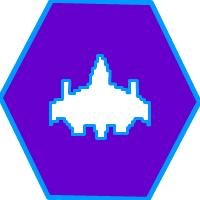
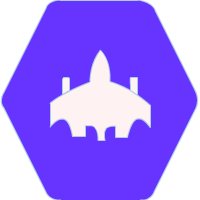
Dia y noche, cambio de íconos

diff --git a/core/src/com/upsidedown/Fondo.java b/core/src/com/upsidedown/Fondo.java
@@ -15,7 +15,7 @@ public class Fondo extends Actor {
 	float ang=0;
 	private float x,y,width,heigth,escalaX,escalaY;
 	private int origenX, origenY,rotacion,srcX,srcY;
-	private boolean flipX,flipY;
+	private boolean flipX,flipY,noche;
 
 	private int speed;
 
@@ -33,6 +33,7 @@ public class Fondo extends Actor {
 		heigth = Config.h;
 		escalaX = escalaY = 1;
 		flipX = flipY = false;
+		noche=false;
 	}
 
 	public void setSpeed(int newSpeed){
@@ -44,7 +45,7 @@ public class Fondo extends Actor {
 	@Override
 	public void draw(Batch batch, float parentAlpha) {
 		batch.setColor(getColor().r, getColor().g, getColor().b, getColor().a * parentAlpha);
-		batch.draw(ciclo,0,-heigth/5,width/2,0,heigth,heigth,1,1,-30*(float)Math.sin(ang),0,0,ciclo.getWidth(),ciclo.getHeight(),false,false);
+		batch.draw(ciclo,0,0,width/2,heigth/2,width,heigth,1,1,ang,0,0,ciclo.getWidth(),ciclo.getHeight(),false,noche);
 		scroll+=speed;
 		for(int i = 0;i<4;i++) {
 			srcX = scroll + i*this.LAYER_SPEED_DIFFERENCE *scroll;
@@ -70,10 +71,6 @@ public class Fondo extends Actor {
 	public void setAng(float g)
 	{
 		ang=g;
-	}
-	public void setMomento(boolean dia)
-	{
-		flipY=dia;
 	}
 }
 

diff --git a/core/src/com/upsidedown/EscenaPrincipal.java b/core/src/com/upsidedown/EscenaPrincipal.java
@@ -209,20 +209,10 @@ public class EscenaPrincipal implements Screen,ContactListener
 	{
 		//Sumamos al ángulo y se obtiene el residuo para evitar overflow.
 		a=(float)((a+0.001)%(float)Math.PI);
-		fondo.setAng(a);
+
 		//Calculamos el coseno. cos(0)=1 Día. cos(pi/2)=0 Noche.
 		float ax=Math.abs((float)Math.cos(a));
-		if(ax<0.5f&&dia)
-		{
-			dia=false;
-			fondo.setMomento(dia);
-		}
-		else if(ax>0.5&&!dia)
-		{
-			dia=true;
-			fondo.setMomento(dia);
-		}
-
+		fondo.setAng(a*360/((float)Math.PI));
 		Gdx.gl.glClearColor(r*ax / 255f, g*ax / 255f, b*ax / 255f, 1);
 	}
 
@@ -249,6 +239,7 @@ public class EscenaPrincipal implements Screen,ContactListener
 	@Override
 	public void render(float delta)
 	{
+		Config.mundo.step(Gdx.graphics.getDeltaTime(),6,2);
 		cicloDiario();
 		limpiar();
 		rotar();

diff --git a/core/src/com/upsidedown/Figura.java b/core/src/com/upsidedown/Figura.java
@@ -7,7 +7,6 @@ import com.badlogic.gdx.physics.box2d.BodyDef;
 import com.badlogic.gdx.physics.box2d.Fixture;
 import com.badlogic.gdx.physics.box2d.FixtureDef;
 import com.badlogic.gdx.physics.box2d.PolygonShape;
-import com.badlogic.gdx.physics.box2d.World;
 import com.badlogic.gdx.utils.Array;
 
 public class Figura
@@ -156,9 +155,12 @@ public class Figura
 	}
 	public void congelar()
 	{
-		cuerpo.setType(BodyDef.BodyType.StaticBody);
-		for (Bloque a:figura)
-			a.setColor(Color.CYAN);
+		if(figura!=null)
+		{
+			cuerpo.setType(BodyDef.BodyType.StaticBody);
+			for (Bloque a:figura)
+				a.setColor(Color.CYAN);
+		}
 	}
 
 }

diff --git a/core/src/com/upsidedown/Creador.java b/core/src/com/upsidedown/Creador.java
@@ -146,7 +146,6 @@ public class Creador
 	{
 		toqueCreador();
 		dibujaFigura(figura);
-		Config.mundo.step(Gdx.graphics.getDeltaTime(),6,2);
 		for(Figura a:elementos)
 		{
 			if(a!=null)
